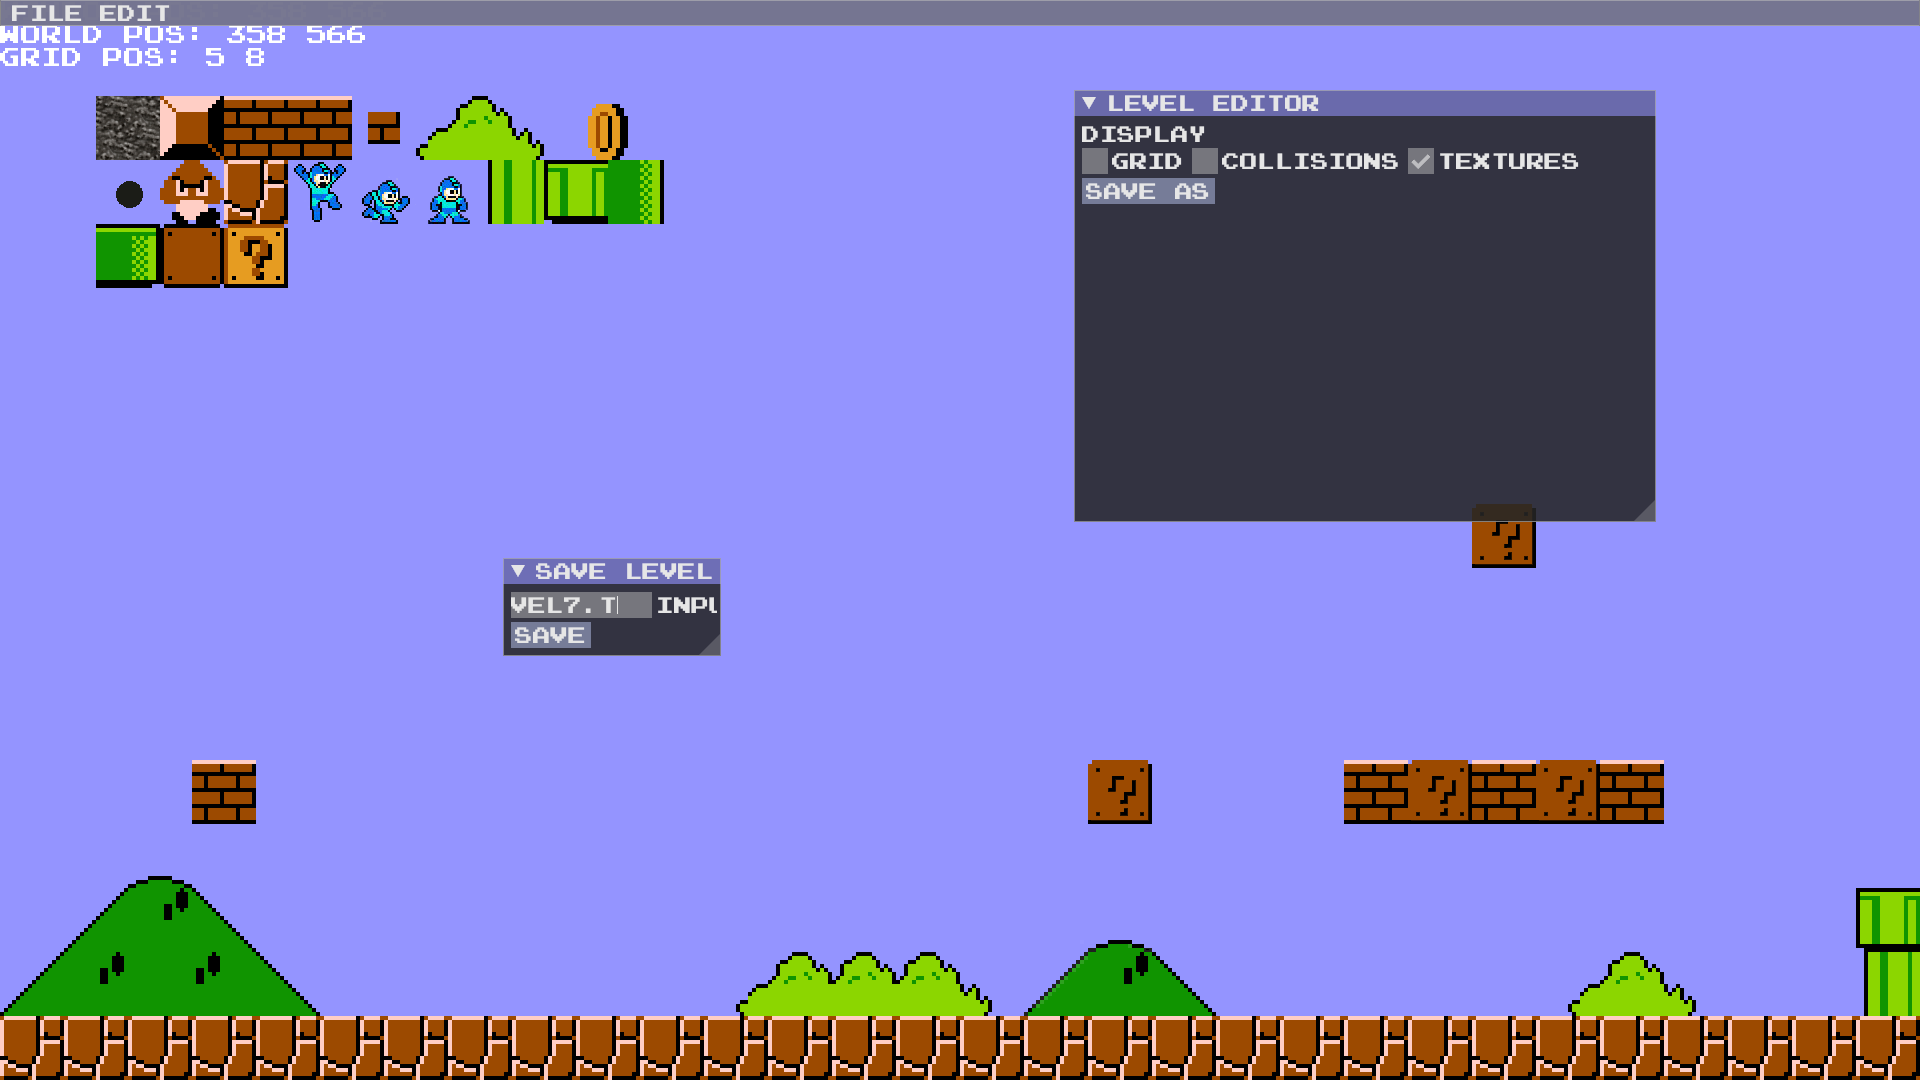
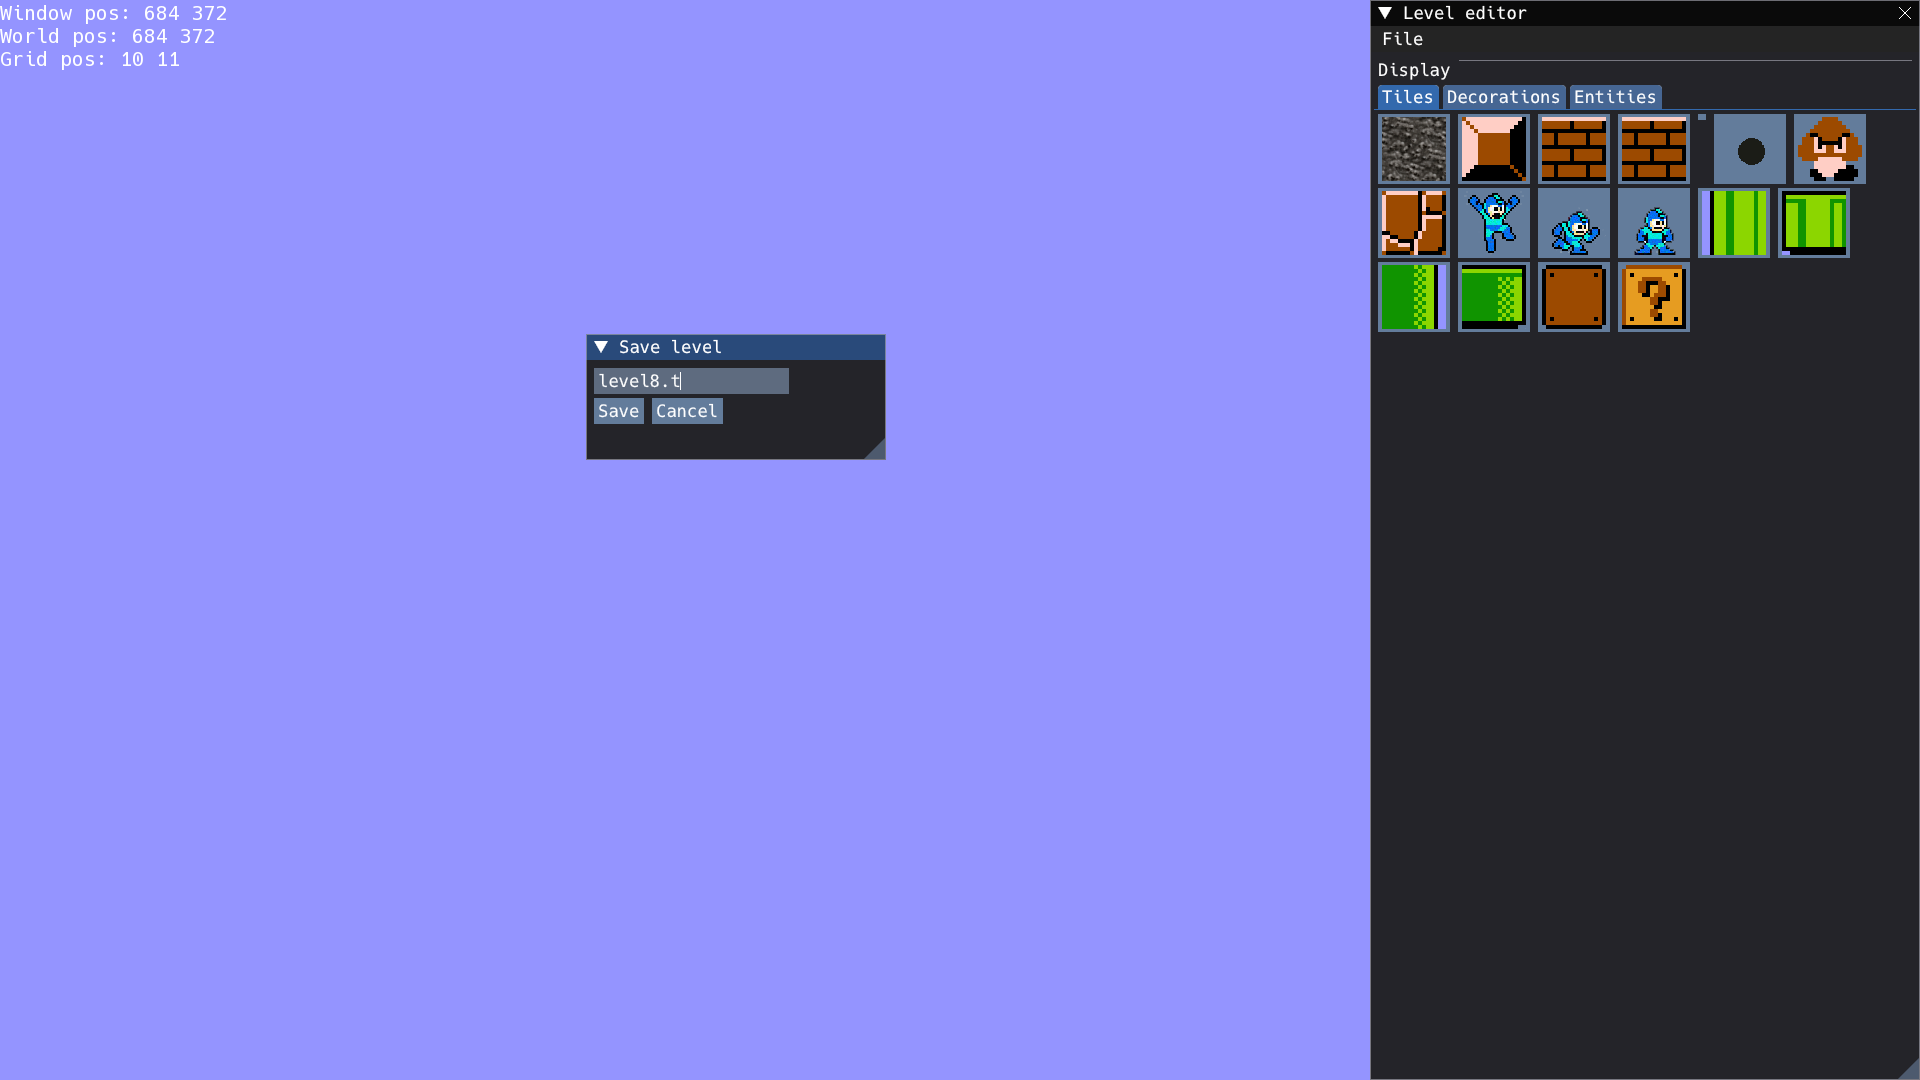
menu improvements

diff --git a/src/Menu.cpp b/src/Menu.cpp
@@ -33,11 +33,14 @@ void Menu::setGameEngine(GameEngine* game)
     m_game = game;
 }
 
-void Menu::drawMainMenu(struct Flags& flags)
+void Menu::setScene(Scene_Play* scene)
+{
+    m_scene = scene;
+}
+
+void Menu::drawMainMenu(Flags& flags)
 {
     ImGui::Begin("Level editor", &m_showWindow, ImGuiWindowFlags_MenuBar);
-    
-    drawMenuBar();
     
     ImGui::Text("Display");
     ImGui::Checkbox("Grid", &flags.drawGrid);
@@ -47,7 +50,9 @@ void Menu::drawMainMenu(struct Flags& flags)
     ImGui::Checkbox("Textures", &flags.drawTextures);
     ImGui::Separator();
 
-
+    drawMenuBar();
+   
+    //drawTabs();
 }
 
 void Menu::drawFileMenu()
@@ -72,7 +77,7 @@ void Menu::drawFileMenu()
         ImGui::Separator();
         if (ImGui::MenuItem("Save"))
         {
-            //saveLevel(filenameBuffer);
+            m_scene->saveLevel(m_scene->filenameBuffer);
             //m_displaySaveWindow = false;
         }
         if (ImGui::MenuItem("Save as.."))
@@ -117,79 +122,63 @@ void Menu::drawMenuBar()
 
 // TODO: Need to change the asset import spec so each texture has additional meta data
 //       so we can just loop through certain textures and use those to load every tile
-//       or sprite we want based on the type.
+//       or sprite we want based on the type. i.e. Dec_ prefix
 void Menu::drawTabs()
 {
     ImGuiTabBarFlags tab_bar_flags = ImGuiTabBarFlags_None;
 
     if (ImGui::BeginTabBar("MyTabBar", tab_bar_flags))
     {
+        auto tiles = m_game->assets().getAnimationMap();
+
         if (ImGui::BeginTabItem("Tiles"))
         {
-            const sf::Texture& brick = m_game->assets().getTexture("Brick");
-            const sf::Texture& ground = m_game->assets().getTexture("Ground");
-            const sf::Texture& block = m_game->assets().getTexture("Block");
-            const sf::Texture& basalt = m_game->assets().getTexture("Basalt");
-            const sf::Vector2f size(65.0f, 65.0f);
+            //Manual button wrapping
+            ImGuiStyle& style = ImGui::GetStyle();
+            int buttons_count = tiles.size();
+            float window_visible_x2 = ImGui::GetWindowPos().x + ImGui::GetWindowContentRegionMax().x;
+            int n = 0;
 
-            if (ImGui::ImageButton("Brick", brick, size, sf::Color::Transparent, sf::Color(255, 255, 255)))
+            for (const auto& [name, animation] : tiles)
             {
-                auto t = m_entityManager->addEntity("Tile");
-                t->addComponent<CAnimation>(m_game->assets().getAnimation("Brick"), true);
-                t->addComponent<CBoundingBox>(m_game->assets().getAnimation("Brick").getSize());
-                //t->addComponent<CTransform>(gridToMidPixel((float)m_mousePos.gridPos.x, (float)m_mousePos.gridPos.y, t));
-                //t->addComponent<CDraggable>();
-                //t->getComponent<CDraggable>().dragging = true;
-            }
-            ImGui::SameLine();
-            if (ImGui::ImageButton("Ground", ground, size, sf::Color::Transparent, sf::Color(255, 255, 255)))
-            {
-                auto t = m_entityManager->addEntity("Tile");
-                t->addComponent<CAnimation>(m_game->assets().getAnimation("Ground"), true);
-                t->addComponent<CBoundingBox>(m_game->assets().getAnimation("Ground").getSize());
-                //t->addComponent<CTransform>(gridToMidPixel((float)m_mousePos.gridPos.x, (float)m_mousePos.gridPos.y, t));
-                //t->addComponent<CDraggable>();
-                //t->getComponent<CDraggable>().dragging = true;
-            }
-            ImGui::SameLine();
-            if (ImGui::ImageButton("Block", block, size, sf::Color::Transparent, sf::Color(255, 255, 255)))
-            {
-                auto t = m_entityManager->addEntity("Tile");
-                t->addComponent<CAnimation>(m_game->assets().getAnimation("Block"), true);
-                t->addComponent<CBoundingBox>(m_game->assets().getAnimation("Block").getSize());
-                //t->addComponent<CTransform>(gridToMidPixel((float)m_mousePos.gridPos.x, (float)m_mousePos.gridPos.y, t));
-                //t->addComponent<CDraggable>();
-                //t->getComponent<CDraggable>().dragging = true;
-            }
-            ImGui::SameLine();
-            if (ImGui::ImageButton("Basalt", m_game->assets().getAnimation("Basalt").getSprite(),
-                size, sf::Color::Transparent, sf::Color(255, 255, 255)))
-            {
-                auto t = m_entityManager->addEntity("Tile");
-                t->addComponent<CAnimation>(m_game->assets().getAnimation("Basalt"), true);
-                t->addComponent<CBoundingBox>(m_game->assets().getAnimation("basalt").getSize());
-                //t->addComponent<CTransform>(gridToMidPixel((float)m_mousePos.gridPos.x, (float)m_mousePos.gridPos.y, t));
-                //t->addComponent<CDraggable>();
-                //t->getComponent<CDraggable>().dragging = true;
-            }
-            ImGui::SameLine();
-            if (ImGui::ImageButton("QuestionFull", m_game->assets().getAnimation("QuestionFull").getSprite(),
-                size, sf::Color::Transparent, sf::Color(255, 255, 255)))
-            {
-                auto t = m_entityManager->addEntity("Tile");
-                t->addComponent<CAnimation>(m_game->assets().getAnimation("QuestionFull"), true);
-                t->addComponent<CBoundingBox>(m_game->assets().getAnimation("QuestionFull").getSize());
-                //t->addComponent<CTransform>(gridToMidPixel((float)m_mousePos.gridPos.x, (float)m_mousePos.gridPos.y, t));
-                //t->addComponent<CDraggable>();
-                //t->getComponent<CDraggable>().dragging = true;
+                Animation anim = animation;
+
+                if (std::strncmp(name.c_str(), "Dec", 3) == 0)
+                {
+                    continue;
+                }
+
+                sf::Texture& tex = m_game->assets().getTexture(name);
+                Vec2 size = anim.getSize();
+
+                if (ImGui::ImageButton(anim.getName().c_str(), anim.getSprite(), sf::Vector2f(size.x, size.y), sf::Color::Transparent,
+                    sf::Color(255, 255, 255, 255)))
+                {
+                    //auto t = m_entityManager.addEntity("Tile");
+                    //std::cout << name << " pressed\n";
+                    //t->addComponent<CAnimation>(anim, true);
+                    //t->addComponent<CBoundingBox>(anim.getSize());
+                    //t->addComponent<CTransform>(gridToMidPixel((float)m_mousePos.gridPos.x, (float)m_mousePos.gridPos.y, t));
+                    //t->addComponent<CDraggable>();
+                    //t->getComponent<CDraggable>().dragging = true;
+                }
+
+                float last_button_x2 = ImGui::GetItemRectMax().x;
+                float next_button_x2 = last_button_x2 + style.ItemSpacing.x + size.x; // Expected position if next button was on same line
+                if (n + 1 < buttons_count && next_button_x2 < window_visible_x2)
+                {
+                    ImGui::SameLine();
+                }
+
+                n++;
             }
 
             ImGui::EndTabItem();
         }
-        if (ImGui::BeginTabItem("Decorations"))
-        {
-            ImGui::EndTabItem();
-        }
+        //if (ImGui::BeginTabItem("Decorations"))
+        //{
+        //    ImGui::EndTabItem();
+        //}
 
         drawEntityManagerMenu();
 
@@ -212,7 +201,6 @@ void Menu::drawEntityManagerMenu()
         ImGui::SetColumnWidth(0, 100);
         ImGui::SetColumnWidth(1, 50);
         ImGui::SetColumnWidth(2, 100);
-        //ImGui::SetColumnWidth(3, 75);
 
         ImGui::Separator();
         ImGui::Text("Id"); ImGui::NextColumn();
@@ -225,11 +213,13 @@ void Menu::drawEntityManagerMenu()
         for (auto& e : m_entityManager->getEntities())
         {
             ImGui::Text("%04d", e->id());
+            char idtext[32];
+            std::snprintf(idtext, sizeof(idtext), "%d", e->id());
             ImGui::NextColumn();
-            if (ImGui::ImageButton("Entity##", e->getComponent<CAnimation>().animation.getSprite(),
+            if (ImGui::ImageButton(idtext, e->getComponent<CAnimation>().animation.getSprite(),
                 sf::Vector2f(24, 24), sf::Color::Transparent, sf::Color(255, 255, 255)))
             {
-                //TODO: edit box for entity properties
+                e->destroy();
             }
             ImGui::NextColumn();
             Vec2 pos = pixelToMidGrid(e->getComponent<CTransform>().pos.x, e->getComponent<CTransform>().pos.y, e);

diff --git a/src/Scene_Play.cpp b/src/Scene_Play.cpp
@@ -81,6 +81,7 @@ void Scene_Play::init(const std::string& levelPath)
     m_deltaClock.restart();
 
     m_menu = Menu(m_game, &m_entityManager);
+    m_menu.setScene(this);
 
     loadLevel(levelPath);
 
@@ -158,6 +159,7 @@ void Scene_Play::loadLevel(const std::string& filename)
             auto t = m_entityManager.addEntity("Dec");
             t->addComponent<CAnimation>(m_game->assets().getAnimation(text), true);
             t->addComponent<CTransform>(gridToMidPixel(X, Y, t));
+            t->addComponent<CDraggable>();
 
         }
         // TODO: for the level editor, this will just be for for players starting position
@@ -327,15 +329,15 @@ void Scene_Play::sDoAction(const Action& action)
     if (action.type() == "START")
     {
         // non game play actions
-        if (action.name() == "TOGGLE_TEXTURE") { m_flags.drawTextures = !m_flags.drawTextures; }
-        else if (action.name() == "TOGGLE_COLLISION") { m_flags.drawCollisions = !m_flags.drawCollisions; }
-        else if (action.name() == "TOGGLE_GRID") { m_flags.drawGrid = !m_flags.drawGrid; std::cout << "Grid " << (m_drawGrid ? "On\n" : "Off\n"); }
-        else if (action.name() == "PAUSE") { setPaused(!m_paused); }
-        else if (action.name() == "QUIT") { onEnd(); }
-        else if (action.name() == "COLLISIONS") { m_collisions = !m_collisions; }
-        else if (action.name() == "DEBUG") { m_debugFlag = !m_debugFlag; }
-        else if (action.name() == "SAVE") { saveLevel("level2.txt"); }
-        else if (action.name() == "TILE_MENU") { m_displayTileMenu = !m_displayTileMenu; }
+        if (action.name() == "TOGGLE_TEXTURE")          { m_flags.drawTextures = !m_flags.drawTextures; }
+        else if (action.name() == "TOGGLE_COLLISION")   { m_flags.drawCollisions = !m_flags.drawCollisions; }
+        else if (action.name() == "TOGGLE_GRID")        { m_flags.drawGrid = !m_flags.drawGrid; std::cout << "Grid " << (m_drawGrid ? "On\n" : "Off\n"); }
+        else if (action.name() == "PAUSE")              { setPaused(!m_paused); }
+        else if (action.name() == "QUIT")               { onEnd(); }
+        else if (action.name() == "COLLISIONS")         { m_collisions = !m_collisions; }
+        else if (action.name() == "DEBUG")              { m_debugFlag = !m_debugFlag; }
+        else if (action.name() == "SAVE")               { saveLevel("level2.txt"); }
+        else if (action.name() == "TILE_MENU")          { m_displayTileMenu = !m_displayTileMenu; }
         
         // movement keys - basic movement and mouse acceleration if mouse with 100 pixels of each side of
         // the window. TODO: make the mouse position a percantage rather than hard coded pixels
@@ -442,7 +444,7 @@ void Scene_Play::sDoAction(const Action& action)
             m_debugText.setCharacterSize(20);
             m_debugText.setFillColor(sf::Color::White);
             m_debugText.setOutlineColor(sf::Color::Black);
-            m_debugText.setFont(m_game->assets().getFont("Mario"));
+            m_debugText.setFont(m_game->assets().getFont("Hack"));
             std::stringstream ss;
 
             ss << "Window pos: " << m_mousePos.winPos.x << " " << m_mousePos.winPos.y << "\n"
@@ -636,6 +638,7 @@ void Scene_Play::sRender()
 
 void Scene_Play::sDebug()
 {
+
 }
 
 void Scene_Play::sDrag()
@@ -710,10 +713,10 @@ void Scene_Play::sMenu()
         ImGuiIO& io = ImGui::GetIO();
         ImTextureID my_tex_id = io.Fonts->TexID;
 
+        
+        
         if (ImGui::BeginTabItem("Tiles"))
         {
-            
-
             //Manual button wrapping
             ImGuiStyle& style = ImGui::GetStyle();
             int buttons_count = tiles.size();
@@ -743,6 +746,10 @@ void Scene_Play::sMenu()
                     t->addComponent<CDraggable>();
                     t->getComponent<CDraggable>().dragging = true;
                 }
+                if (ImGui::IsItemHovered())
+                {
+                    ImGui::SetTooltip(name.c_str());
+                }
 
                 float last_button_x2 = ImGui::GetItemRectMax().x;
                 float next_button_x2 = last_button_x2 + style.ItemSpacing.x + size.x; // Expected position if next button was on same line
@@ -759,7 +766,47 @@ void Scene_Play::sMenu()
         
         if (ImGui::BeginTabItem("Decorations"))
         {
+            //Manual button wrapping
+            ImGuiStyle& style = ImGui::GetStyle();
+            int buttons_count = tiles.size();
+            float window_visible_x2 = ImGui::GetWindowPos().x + ImGui::GetWindowContentRegionMax().x;
+            int n = 0;
 
+            for (const auto& [name, animation] : tiles)
+            {
+                Animation anim = animation;
+
+                if (std::strncmp(name.c_str(), "Dec", 3) == 0)
+                {
+                    sf::Texture& tex = m_game->assets().getTexture(name);
+                    Vec2 size = anim.getSize();
+
+                    if (ImGui::ImageButton(anim.getName().c_str(), anim.getSprite(), sf::Vector2f(size.x, size.y), sf::Color::Transparent,
+                        sf::Color(255, 255, 255, 255)))
+                    {
+                        auto t = m_entityManager.addEntity("Dec");
+                        std::cout << name << " pressed\n";
+                        t->addComponent<CAnimation>(m_game->assets().getAnimation(name), true);
+                        t->addComponent<CTransform>(gridToMidPixel((float)m_mousePos.gridPos.x, (float)m_mousePos.gridPos.y, t));
+                        t->addComponent<CDraggable>();
+                        t->getComponent<CDraggable>().dragging = true;
+                    }
+
+                    if (ImGui::IsItemHovered())
+                    {
+                        ImGui::SetTooltip(name.c_str());
+                    }
+
+                    float last_button_x2 = ImGui::GetItemRectMax().x;
+                    float next_button_x2 = last_button_x2 + style.ItemSpacing.x + size.x; // Expected position if next button was on same line
+                    if (n + 1 < buttons_count && next_button_x2 < window_visible_x2)
+                    {
+                        ImGui::SameLine();
+                    }
+
+                    n++;
+                }  
+            }
 
             ImGui::EndTabItem();
         }

diff --git a/include/Menu.h b/include/Menu.h
@@ -6,11 +6,13 @@
 #include "Animation.h"
 
 class GameEngine;
+class Scene_Play;
 
 class Menu
 {
 	GameEngine*					m_game      = nullptr;
 	EntityManager*				m_entityManager = nullptr;
+	Scene_Play*					m_scene = nullptr;
 	bool						m_displaySaveWindow = false;
 	bool						m_showWindow = false;
 	sf::Clock					m_deltaClock;
@@ -30,13 +32,13 @@ public:
 	Menu(GameEngine *game, EntityManager *entityManager)
 	: m_game(game), m_entityManager(entityManager) {}
 	void renderMenu(sf::View view);
-	void setIconOffset(int iconOffset);
 	//void setFont(sf::Font font);
 	void setEntityManager(EntityManager* entityManager);
 	void setGameEngine(GameEngine* game);
+	void setScene(Scene_Play* scene);
 	void DrawStatusPopup();
 	void drawEntityManagerMenu();
 	void onUpdate();
-	void drawMainMenu(struct Flags &flags);
+	void drawMainMenu(struct Flags& flags);
 };
 

diff --git a/include/Scene_Play.h b/include/Scene_Play.h
@@ -69,12 +69,12 @@ protected:
 	sf::CircleShape					m_shape;
 	sf::View						m_view;
 	sf::Clock						m_deltaClock;
-	char                            filenameBuffer[255] = "out.txt";
+	
 	
 	void init(const std::string& levelPath);
 	void loadLevel(const std::string& filename);
 	void loadLevel(int i);
-	void saveLevel(const std::string& filename);
+	
 	void resetLevel();
 
 	void sAnimation();
@@ -99,10 +99,14 @@ protected:
 	float height() const;
 
 public:
+	char                            filenameBuffer[255] = "out.txt";
+
+
 	Scene_Play(GameEngine* gameEngine, const std::string& levelPath);
 	void update();
 	void onEnd();
 	void sDoAction(const Action& action);
 	void sRender();
+	void saveLevel(const std::string& filename);
 };
 

diff --git a/src/GameEngine.cpp b/src/GameEngine.cpp
@@ -17,13 +17,11 @@ void GameEngine::init(const std::string& path)
 	io.BackendFlags |= ImGuiBackendFlags_HasMouseCursors;
 	io.BackendFlags |= ImGuiBackendFlags_HasSetMousePos;
 	// Load font for ImGui
-	io.Fonts->AddFontFromFileTTF("assets/Mario.ttf", 20.f);
+	io.Fonts->AddFontFromFileTTF("assets/Hack.ttf", 20.f);
 	ImGui::SFML::UpdateFontTexture();
 
-	//ImGui::PushFont(IO.Fonts->Fonts[0]);
-
 	ImGui::StyleColorsDark();
-	changeScene("play", std::make_shared<Scene_Play>(this, "level1.txt"), true);
+	changeScene("play", std::make_shared<Scene_Play>(this, "out.txt"), true);
 }
 
 void GameEngine::update()
